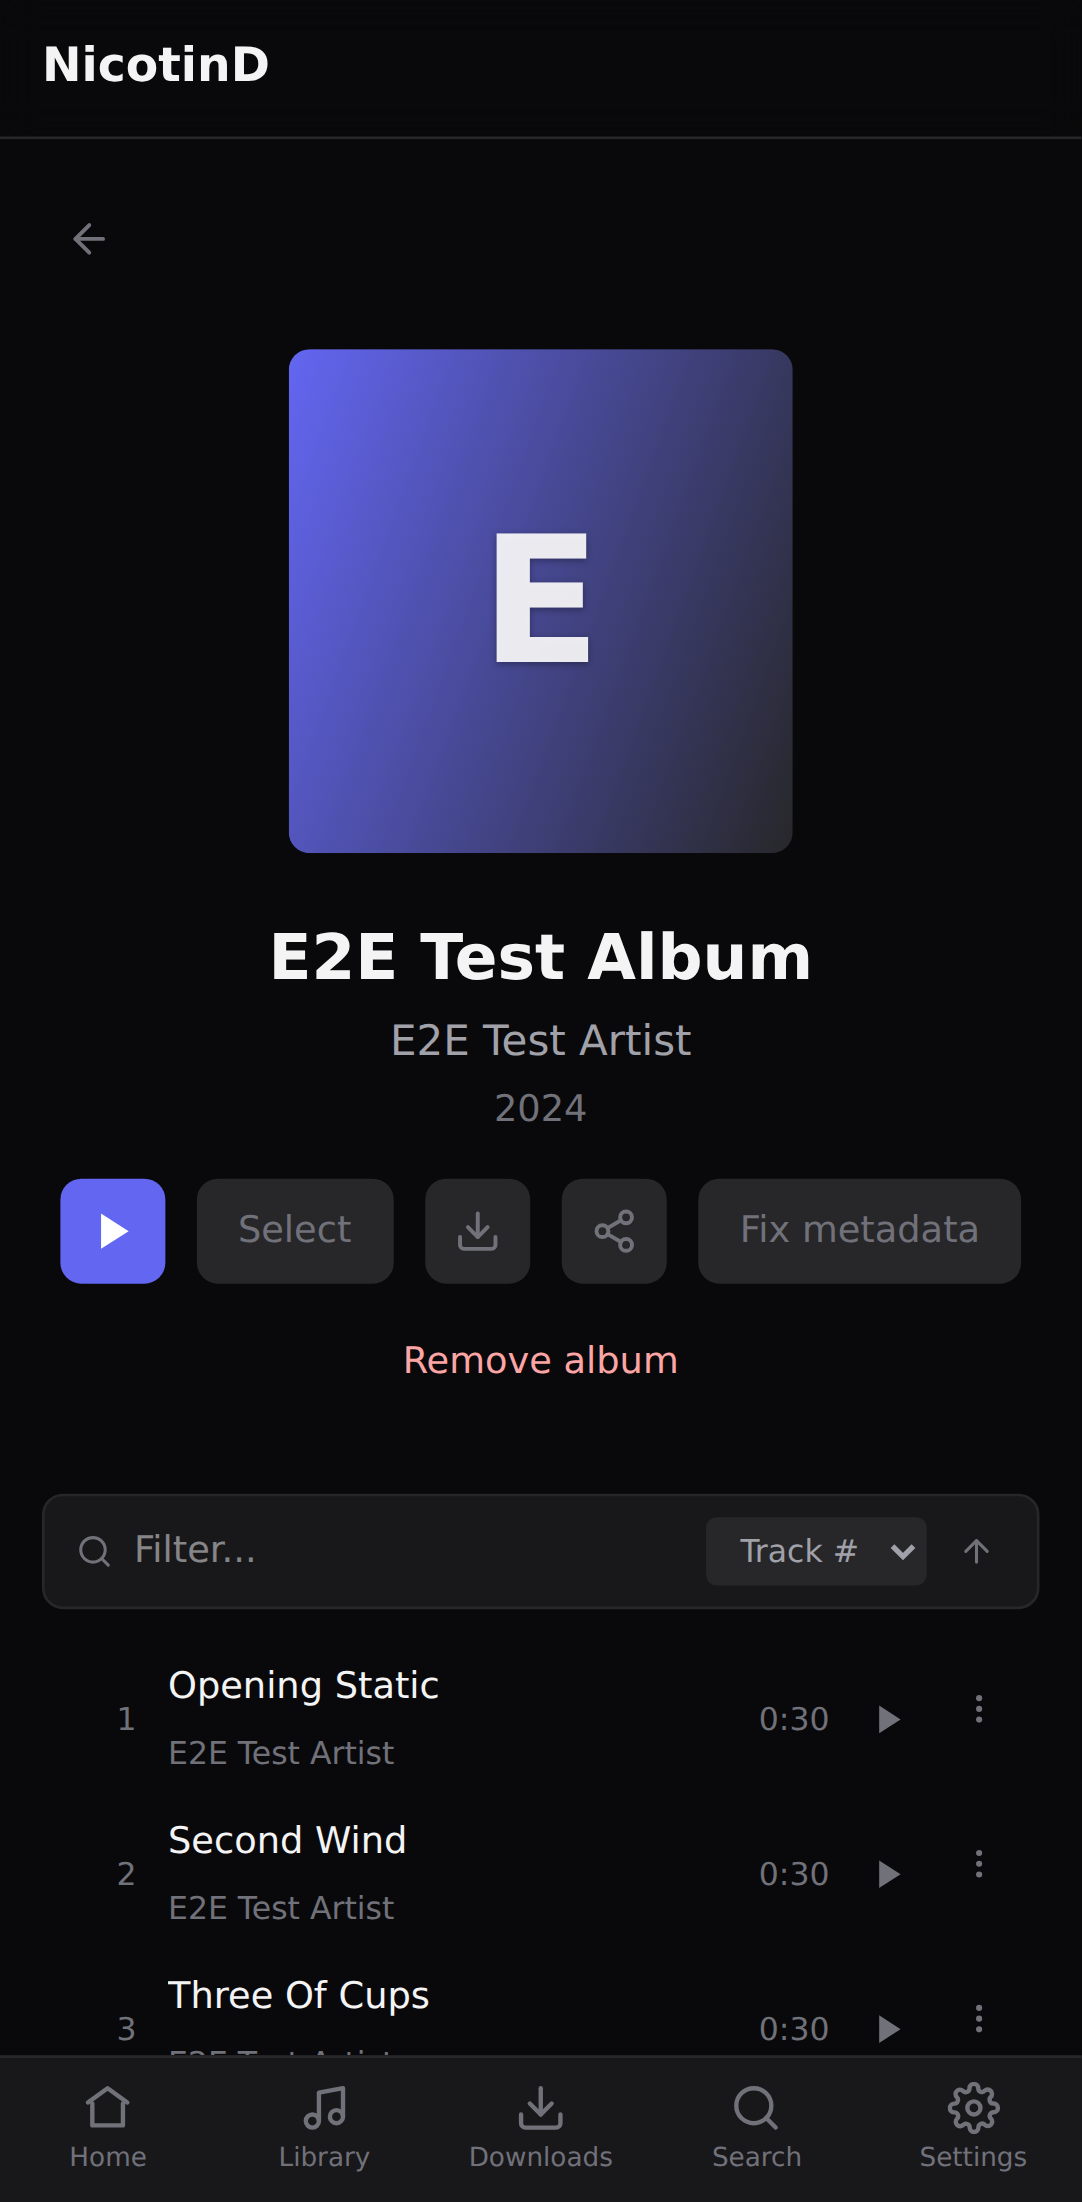
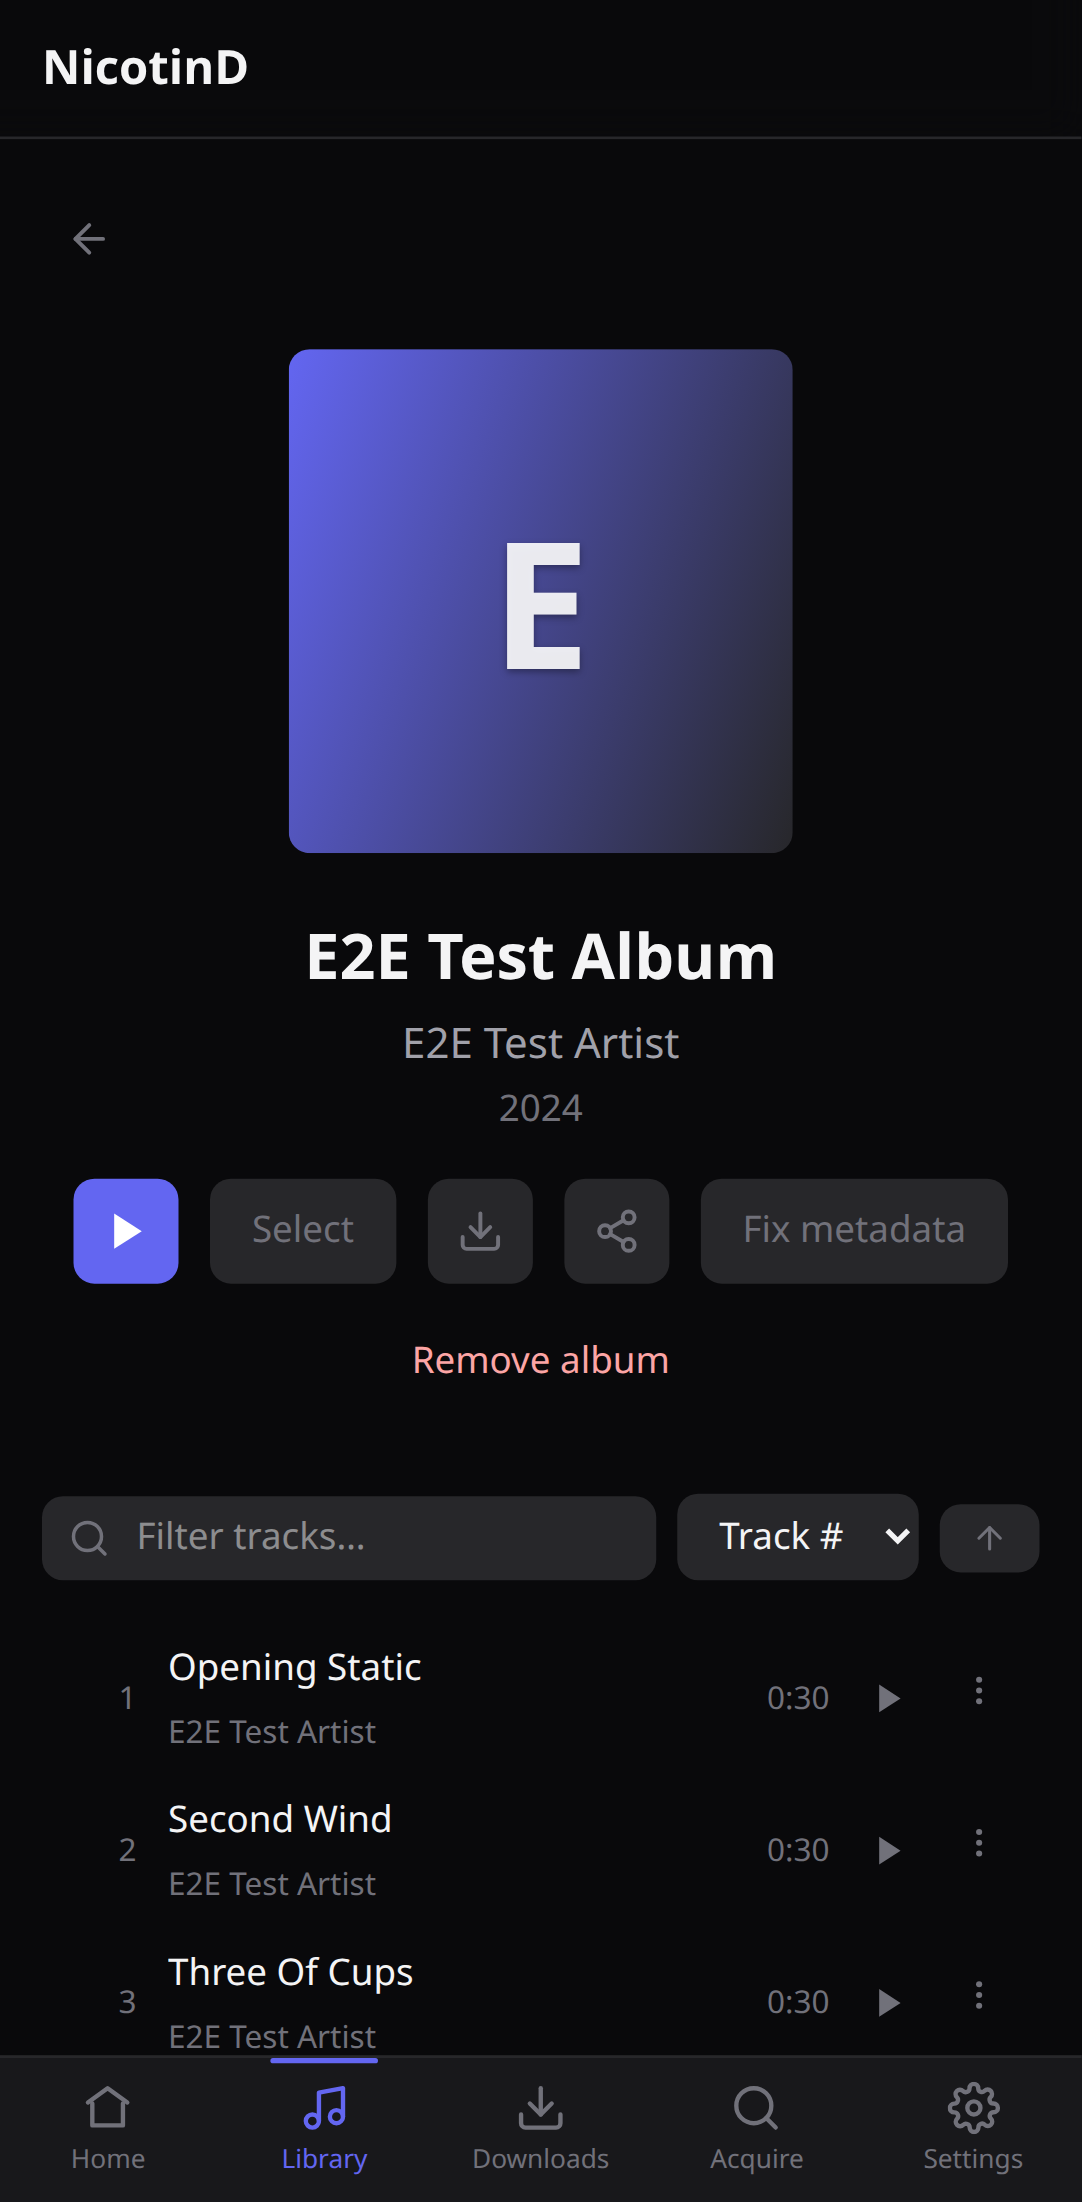
fix(e2e): use viewport screenshots for README shots, closes duplicate player bar glitch
Shots 1 and 2 in mobile-screenshots.screens.ts used fullPage: true, which
re-renders the fixed/sticky bottom-chrome (mini-player + tab bar) against
Chromium's synthetic full-page viewport instead of the real one, producing
a broken duplicate transport bar with bled-through track rows (issue #354).
Switched both to fullPage: false, matching shot 4's existing correct
pattern — reproduced the bug, confirmed the fix eliminates it, and
verified all 3 README-mapped shots are the expected 1082x2202 viewport
size. Refreshed the 3 docs/images/*.png with clean captures from the
fixed flow.

Closes #354

diff --git a/packages/e2e/tests/mobile-screenshots.screens.ts b/packages/e2e/tests/mobile-screenshots.screens.ts
@@ -13,7 +13,7 @@ test('capture mobile screens', async ({ page }) => {
   await page.goto('/library');
   await expect(page.getByTestId('album-card').first()).toBeVisible();
   await page.waitForTimeout(600); // let cover art settle
-  await page.screenshot({ path: `${OUT}/01-library-list.png`, fullPage: true });
+  await page.screenshot({ path: `${OUT}/01-library-list.png`, fullPage: false });
 
   // 2) Library album (detail + tracklist)
   await page.getByTestId('album-card').filter({ hasText: FIXTURE.album.title }).click();
@@ -21,7 +21,7 @@ test('capture mobile screens', async ({ page }) => {
   await expect(page.getByTestId('play-album')).toBeVisible();
   await expect(page.getByText('Opening Static')).toBeVisible();
   await page.waitForTimeout(400);
-  await page.screenshot({ path: `${OUT}/02-library-album.png`, fullPage: true });
+  await page.screenshot({ path: `${OUT}/02-library-album.png`, fullPage: false });
 
   // 3) Player — mini bar then full Now Playing
   await page.getByTestId('play-album').click();
